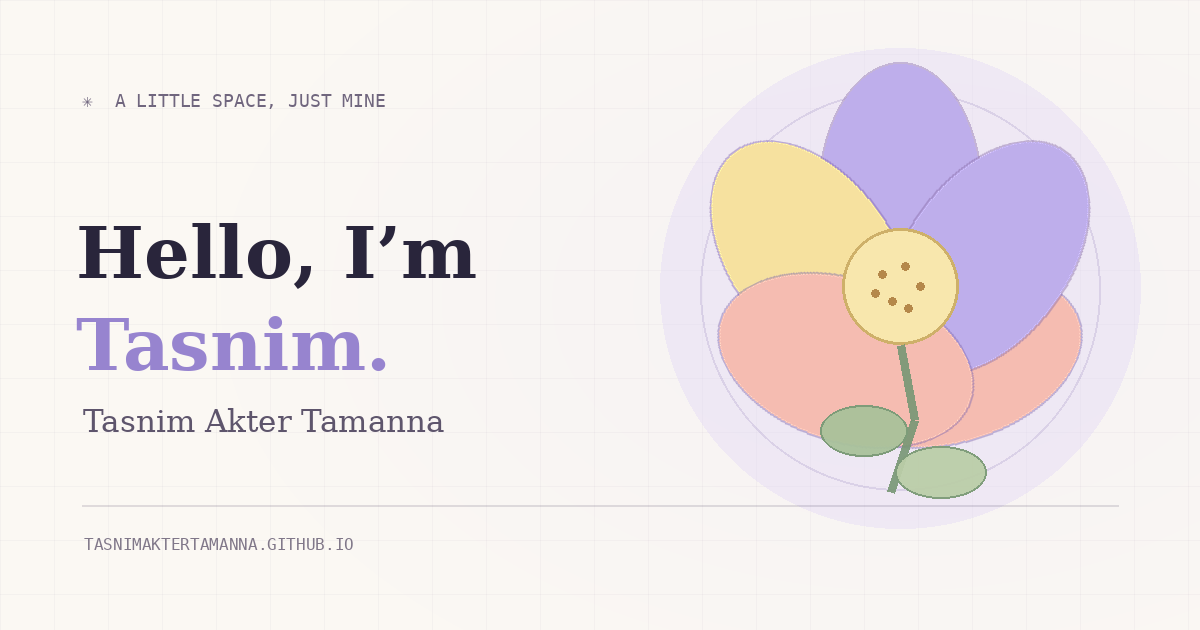
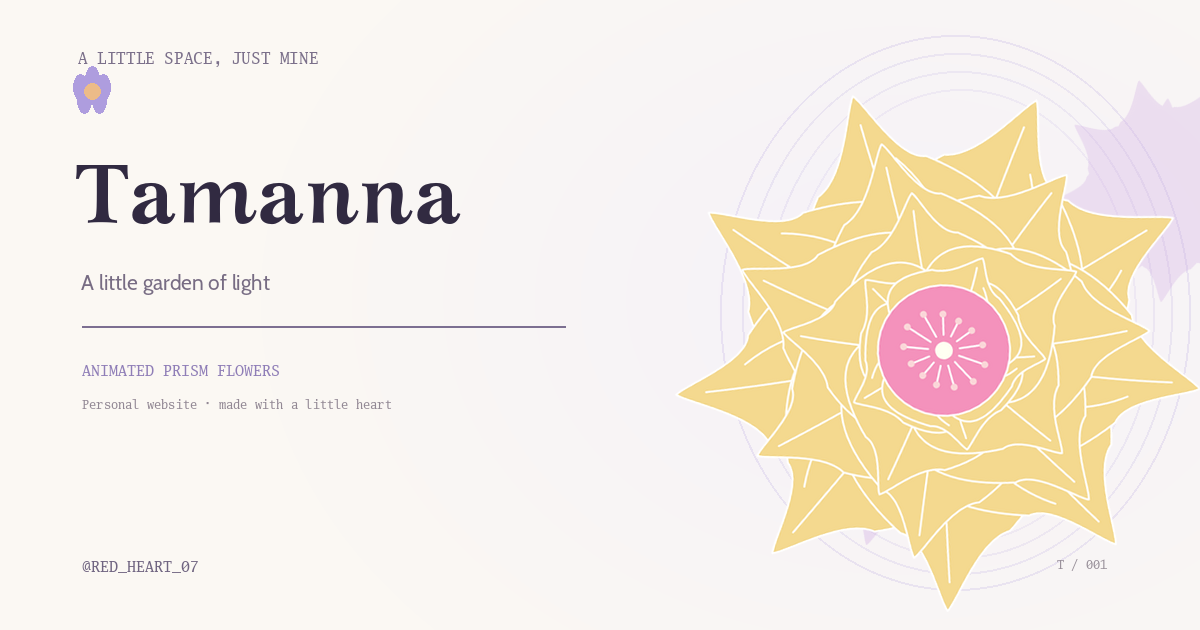
Add files via upload

diff --git a/index.html b/index.html
@@ -6,35 +6,34 @@
   <meta name="theme-color" content="#fbf8f3">
   <meta name="color-scheme" content="light dark">
   <meta name="author" content="Tasnim Akter Tamanna">
-  <meta name="description" content="A little corner of the internet belonging to Tasnim Akter Tamanna — a personal space for stories, ideas, and things still becoming.">
+  <meta name="description" content="A little corner of the internet belonging to Tamanna — a personal space for stories, ideas, and a garden of animated prism flowers.">
   <meta name="robots" content="index,follow,max-image-preview:large">
   <link rel="canonical" href="https://tasnimaktertamanna.github.io/">
-  <title>Tasnim Akter Tamanna — A little corner of the internet</title>
+  <title>Tamanna — A little garden of light</title>
 
   <meta property="og:type" content="website">
-  <meta property="og:site_name" content="Tasnim Akter Tamanna">
-  <meta property="og:title" content="Tasnim Akter Tamanna — A little corner of the internet">
-  <meta property="og:description" content="A personal space for stories, ideas, and all the things still becoming.">
+  <meta property="og:site_name" content="Tamanna">
+  <meta property="og:title" content="Tamanna — A little garden of light">
+  <meta property="og:description" content="A personal space for stories, ideas, and a little garden of animated prism flowers.">
   <meta property="og:url" content="https://tasnimaktertamanna.github.io/">
   <meta property="og:image" content="https://tasnimaktertamanna.github.io/og-image.png">
   <meta property="og:image:secure_url" content="https://tasnimaktertamanna.github.io/og-image.png">
   <meta property="og:image:type" content="image/png">
   <meta property="og:image:width" content="1200">
   <meta property="og:image:height" content="630">
-  <meta property="og:image:alt" content="Tasnim Akter Tamanna — a little corner of the internet">
+  <meta property="og:image:alt" content="Tamanna — a little garden of light">
   <meta name="twitter:card" content="summary_large_image">
-  <meta name="twitter:title" content="Tasnim Akter Tamanna — A little corner of the internet">
-  <meta name="twitter:description" content="A personal space for stories, ideas, and all the things still becoming.">
+  <meta name="twitter:title" content="Tamanna — A little garden of light">
+  <meta name="twitter:description" content="A personal space for stories, ideas, and a little garden of animated prism flowers.">
   <meta name="twitter:image" content="https://tasnimaktertamanna.github.io/og-image.png">
-  <meta name="twitter:image:alt" content="Tasnim Akter Tamanna — a little corner of the internet">
+  <meta name="twitter:image:alt" content="Tamanna — a little garden of light">
 
   <link rel="icon" type="image/svg+xml" href="/favicon.svg">
   <link rel="preconnect" href="https://fonts.googleapis.com">
   <link rel="preconnect" href="https://fonts.gstatic.com" crossorigin>
   <link href="https://fonts.googleapis.com/css2?family=DM+Sans:wght@400;500;600;700&family=DM+Mono:wght@400;500&family=Playfair+Display:ital,wght@0,500;0,600;0,700;1,500;1,600&display=swap" rel="stylesheet">
- 
-<link rel="stylesheet" href="/styles.css?v=1.0.0">
-  <script defer src="main.js?v=1.0.0"></script>
+  <link rel="stylesheet" href="/styles.css?v=2.0.0">
+  <script defer src="/main.js?v=2.0.0"></script>
   <script type="application/ld+json">
   {
     "@context": "https://schema.org",
@@ -51,9 +50,9 @@
 
   <header class="site-header">
     <div class="header-inner wrap">
-      <a class="wordmark" href="#home" aria-label="Tasnim Akter Tamanna home">
+      <a class="wordmark" href="#home" aria-label="Tamanna home">
         <span class="wordmark-flower" aria-hidden="true"><svg viewBox="0 0 40 40"><path d="M20 4c5 6 5 10 0 16C15 14 15 10 20 4Z"/><path d="M36 20c-6 5-10 5-16 0 6-5 10-5 16 0Z"/><path d="M20 36c-5-6-5-10 0-16 5 6 5 10 0 16Z"/><path d="M4 20c6-5 10-5 16 0-6 5-10 5-16 0Z"/><circle cx="20" cy="20" r="3.2"/></svg></span>
-        <span>tasnim<span class="wordmark-dot">.</span></span>
+        <span>tamanna<span class="wordmark-dot">.</span></span>
       </a>
       <nav class="main-nav" id="mainNav" aria-label="Main navigation">
         <a href="#story">My story</a>
@@ -75,8 +74,8 @@
     <section class="hero wrap" id="home" aria-labelledby="hero-title">
       <div class="hero-copy">
         <p class="eyebrow"><span class="eyebrow-star">✳</span> A LITTLE SPACE, JUST MINE</p>
-        <h1 id="hero-title">Hello, I'm<br><em>Tasnim</em><span class="hero-period">.</span></h1>
-        <p class="hero-subtitle">Tasnim Akter Tamanna</p>
+        <h1 id="hero-title">Hello, I'm<br><em>Tamanna</em><span class="hero-period">.</span></h1>
+        <p class="hero-subtitle">ONLINE AS <strong>@red_heart_07</strong></p>
         <p class="hero-description">A small corner of the internet for my story, my ideas, and the little things that make a life feel like its own.</p>
         <div class="hero-actions">
           <a class="button button-dark" href="#story">Come on in <span aria-hidden="true">↓</span></a>
@@ -85,33 +84,25 @@
         <div class="hero-footnote"><span class="tiny-spark">✳</span> A work in progress, in the loveliest way.</div>
       </div>
 
-      <div class="hero-art" aria-label="An abstract flower illustration in lilac, coral and butter yellow" role="img">
+      <div class="hero-art prism-garden" id="prismGarden" aria-label="Animated translucent Prism Aster flower from the TRILYVA Prism Flowers collection">
         <div class="art-halo"></div>
+        <div class="prism-orbit prism-orbit-one" aria-hidden="true"></div>
+        <div class="prism-orbit prism-orbit-two" aria-hidden="true"></div>
+        <img class="prism-flower prism-flower-echo prism-flower-echo-one" src="/prism-aster.svg" alt="" aria-hidden="true">
+        <img class="prism-flower prism-flower-echo prism-flower-echo-two" src="/prism-aster.svg" alt="" aria-hidden="true">
+        <img class="prism-flower prism-flower-main" src="/prism-aster.svg" alt="A translucent golden and rose-pink Prism Aster flower" loading="eager" decoding="async" fetchpriority="high">
+        <span class="prism-petal prism-petal-one" aria-hidden="true"></span>
+        <span class="prism-petal prism-petal-two" aria-hidden="true"></span>
+        <span class="prism-petal prism-petal-three" aria-hidden="true"></span>
+        <span class="prism-glint prism-glint-one" aria-hidden="true">✦</span>
+        <span class="prism-glint prism-glint-two" aria-hidden="true">✧</span>
         <div class="art-note note-one">GROW AT<br>YOUR PACE</div>
         <div class="art-note note-two">EST. 2026</div>
-        <svg class="hero-flower" viewBox="0 0 560 600" role="img" aria-hidden="true">
-          <defs>
-            <linearGradient id="petalA" x1="0" y1="0" x2="1" y2="1"><stop stop-color="#d9ccff"/><stop offset="1" stop-color="#a997ed"/></linearGradient>
-            <linearGradient id="petalB" x1="0" y1="0" x2="1" y2="1"><stop stop-color="#ffd1c5"/><stop offset="1" stop-color="#f29d9b"/></linearGradient>
-            <linearGradient id="petalC" x1="0" y1="0" x2="1" y2="1"><stop stop-color="#fff0b7"/><stop offset="1" stop-color="#eecf76"/></linearGradient>
-            <filter id="flowerShadow" x="-30%" y="-30%" width="160%" height="160%"><feGaussianBlur in="SourceAlpha" stdDeviation="8"/><feOffset dy="12"/><feComponentTransfer><feFuncA type="linear" slope=".15"/></feComponentTransfer><feMerge><feMergeNode/><feMergeNode in="SourceGraphic"/></feMerge></filter>
-          </defs>
-          <g class="flower-stem" fill="none" stroke="#7d9878" stroke-width="5" stroke-linecap="round"><path d="M278 308C276 395 300 465 268 555"/><path d="M280 440C225 401 192 415 176 449C221 464 253 462 280 440Z" fill="#a9c19b" stroke-width="2"/><path d="M280 488C329 448 364 459 377 492C336 507 304 507 280 488Z" fill="#bacda7" stroke-width="2"/></g>
-          <g filter="url(#flowerShadow)" transform="translate(280 270)">
-            <g class="petal petal-a"><path d="M0 8C-65-18-79-91-27-143C-8-163 9-156 17-133C37-79 34-35 0 8Z" fill="url(#petalA)" stroke="#9d8cdd" stroke-opacity=".55" stroke-width="2"/></g>
-            <g class="petal petal-b"><path d="M0 8C-65-18-79-91-27-143C-8-163 9-156 17-133C37-79 34-35 0 8Z" fill="url(#petalB)" stroke="#e98f8d" stroke-opacity=".6" stroke-width="2" transform="rotate(72)"/></g>
-            <g class="petal petal-c"><path d="M0 8C-65-18-79-91-27-143C-8-163 9-156 17-133C37-79 34-35 0 8Z" fill="url(#petalC)" stroke="#dbbd68" stroke-opacity=".6" stroke-width="2" transform="rotate(144)"/></g>
-            <g class="petal petal-d"><path d="M0 8C-65-18-79-91-27-143C-8-163 9-156 17-133C37-79 34-35 0 8Z" fill="url(#petalA)" stroke="#9d8cdd" stroke-opacity=".55" stroke-width="2" transform="rotate(216)"/></g>
-            <g class="petal petal-e"><path d="M0 8C-65-18-79-91-27-143C-8-163 9-156 17-133C37-79 34-35 0 8Z" fill="url(#petalB)" stroke="#e98f8d" stroke-opacity=".6" stroke-width="2" transform="rotate(288)"/></g>
-            <circle r="43" fill="#f8e7ad" stroke="#d6b85f" stroke-width="2"/>
-            <circle r="29" fill="#f4d58a"/>
-            <g fill="#b88848"><circle cx="-10" cy="-8" r="3"/><circle cx="7" cy="-14" r="3"/><circle cx="16" cy="1" r="3"/><circle cx="-4" cy="9" r="3"/><circle cx="7" cy="18" r="2.5"/><circle cx="-17" cy="8" r="2.5"/><circle cx="-1" cy="-20" r="2.2"/></g>
-          </g>
-          <g fill="none" stroke="#b6a3e9" stroke-width="2"><path d="M80 175c15-20 30-20 45 0-15 20-30 20-45 0Z"/><path d="M430 115c12-16 24-16 36 0-12 16-24 16-36 0Z"/><path d="M455 404c10-13 20-13 30 0-10 13-20 13-30 0Z"/></g>
-          <g fill="#e89c93"><circle cx="115" cy="335" r="5"/><circle cx="420" cy="255" r="4"/><circle cx="390" cy="510" r="6"/></g>
-          <g fill="#b2a0e7"><path d="M100 440l6 13 13 6-13 6-6 13-6-13-13-6 13-6Z"/><path d="M448 185l5 10 10 5-10 5-5 10-5-10-10-5 10-5Z"/></g>
-        </svg>
-        <div class="art-caption"><span>01 / A FRESH PAGE</span><span>✳</span></div>
+        <div class="art-caption"><span>TRILYVA / PRISM FLOWERS</span><a href="https://tamasrazim.github.io/projects/trilyva/renderer/" target="_blank" rel="noopener noreferrer">VIEW LIBRARY ↗</a></div>
+        <div class="prism-controls">
+          <span class="prism-credit">Artwork by Robiul Rumman Razim · used with permission</span>
+          <button class="prism-pause" id="prismPause" type="button" aria-pressed="false">Pause motion</button>
+        </div>
       </div>
       <div class="hero-bottom"><span>PERSONAL WEBSITE</span><span>MADE WITH A LITTLE DAYDREAMING</span><span>SCROLL TO EXPLORE ↓</span></div>
     </section>
@@ -121,10 +112,10 @@
       <div class="story-grid">
         <div class="story-heading reveal"><p class="eyebrow">A NOTE FROM ME</p><h2 id="story-title">Not a brand.<br><em>Just me.</em></h2><span class="handwritten">and that's enough ♡</span></div>
         <div class="story-copy reveal">
-          <p class="story-lead">I'm Tasnim Akter Tamanna. Welcome to my little space on the internet.</p>
+          <p class="story-lead">I'm Tamanna. Welcome to my little space on the internet.</p>
           <p>I made this page to have somewhere that feels personal — a place to introduce myself, gather the things I choose to share, and let the story unfold naturally.</p>
           <p>There is no rush to fill every corner. Some pages are allowed to grow slowly.</p>
-          <div class="signature"><span class="signature-line"></span><span>With love, Tasnim</span></div>
+          <div class="signature"><span class="signature-line"></span><span>With love, Tamanna</span></div>
         </div>
       </div>
     </section>
@@ -156,7 +147,7 @@
         <div class="online-heading reveal"><p class="eyebrow">SOMEWHERE ELSE</p><h2 id="online-title">Find me<br><em>out there.</em></h2><p>For now, GitHub is the one link I'm putting here. More can join when I'm ready.</p></div>
         <a class="github-card reveal" href="https://github.com/tasnimaktertamanna" target="_blank" rel="noopener noreferrer">
           <span class="github-icon" aria-hidden="true"><svg viewBox="0 0 24 24"><path d="M9 19c-4.3 1.4-4.3-2.5-6-3m12 6v-3.9a3.4 3.4 0 0 0-.9-2.7c3-.3 6.2-1.5 6.2-6.7a5.2 5.2 0 0 0-1.4-3.6 4.8 4.8 0 0 0-.1-3.6s-1.2-.4-3.8 1.4a13 13 0 0 0-6.9 0C5.5 1.1 4.3 1.5 4.3 1.5a4.8 4.8 0 0 0-.1 3.6 5.2 5.2 0 0 0-1.4 3.6c0 5.2 3.2 6.4 6.2 6.7a3.4 3.4 0 0 0-.9 2.7V22"/></svg></span>
-          <span class="github-copy"><small>MY PROFILE</small><strong>GitHub</strong><span>@tasnimaktertamanna</span></span>
+          <span class="github-copy"><small>MY GITHUB PROFILE</small><strong>GitHub</strong><span>@tasnimaktertamanna</span><small class="online-handle-label">MY ONLINE NAME</small><span>@red_heart_07</span></span>
           <span class="github-arrow" aria-hidden="true">↗</span>
         </a>
       </div>
@@ -173,7 +164,7 @@
 
   <footer class="site-footer wrap">
     <a class="footer-mark" href="#home">T<span>✳</span>T</a>
-    <span>© <span id="year">2026</span> TAS NIM AKTER TAMANNA</span>
+    <span>© <span id="year">2026</span> TAMANNA</span>
     <span>MADE WITH A LITTLE HEART <b>♡</b></span>
   </footer>
 </body>

diff --git a/styles.css b/styles.css
@@ -218,3 +218,58 @@ button { color: inherit; font: inherit; }
   *, *::before, *::after { scroll-behavior: auto !important; animation-duration: .01ms !important; animation-iteration-count: 1 !important; transition-duration: .01ms !important; }
   .reveal { opacity: 1; transform: none; }
 }
+
+
+/* TAMANNA / TRILYVA PRISM GARDEN */
+.hero-subtitle strong { color: var(--ink); font-weight: 700; }
+.prism-garden { overflow: hidden; min-width: 0; }
+.prism-garden .art-halo { width: min(94%, 520px); background: radial-gradient(circle at 48% 48%, rgba(255,255,255,.82), transparent 35%), linear-gradient(145deg, rgba(220,211,245,.72), rgba(249,215,205,.68) 52%, rgba(246,232,177,.7)); }
+.prism-orbit { position: absolute; z-index: 0; border: 1px solid rgba(158,139,217,.25); border-radius: 50%; pointer-events: none; }
+.prism-orbit-one { width: min(102%, 550px); aspect-ratio: 1; transform: rotate(-24deg) scaleY(.63); animation: prismOrbit 38s linear infinite; }
+.prism-orbit-two { width: min(82%, 440px); aspect-ratio: 1; transform: rotate(38deg) scaleY(.72); border-color: rgba(226,151,144,.28); animation: prismOrbit 52s linear infinite reverse; }
+.prism-flower { position: absolute; z-index: 1; display: block; object-fit: contain; pointer-events: none; user-select: none; transform-origin: 50% 50%; }
+.prism-flower-main { width: min(88%, 475px); max-height: 92%; filter: drop-shadow(0 24px 30px rgba(87,63,100,.16)); animation: prismFloat 8.5s ease-in-out infinite, prismTurn 76s linear infinite; }
+.prism-flower-echo { width: min(49%, 265px); opacity: .37; filter: hue-rotate(52deg) saturate(1.16) drop-shadow(0 14px 24px rgba(87,63,100,.1)); }
+.prism-flower-echo-one { left: -1%; top: 19%; animation: prismEchoLeft 13s ease-in-out infinite; }
+.prism-flower-echo-two { right: -2%; bottom: 11%; filter: hue-rotate(148deg) saturate(1.2) drop-shadow(0 14px 24px rgba(87,63,100,.1)); animation: prismEchoRight 15s ease-in-out infinite; }
+.prism-petal { position: absolute; z-index: 2; width: 24px; height: 40px; border: 1px solid rgba(255,255,255,.9); border-radius: 85% 15% 80% 20%; background: linear-gradient(145deg, rgba(255,255,255,.83), rgba(212,193,247,.74) 54%, rgba(245,174,167,.72)); box-shadow: 0 6px 18px rgba(130,101,166,.12); pointer-events: none; }
+.prism-petal-one { left: 12%; top: 34%; transform: rotate(-31deg); animation: petalDriftOne 9s ease-in-out infinite; }
+.prism-petal-two { right: 13%; top: 29%; width: 17px; height: 29px; background: linear-gradient(145deg, rgba(255,255,255,.85), rgba(255,225,159,.8)); transform: rotate(31deg); animation: petalDriftTwo 11s ease-in-out infinite; }
+.prism-petal-three { right: 22%; bottom: 21%; width: 13px; height: 23px; background: linear-gradient(145deg, rgba(255,255,255,.8), rgba(245,172,170,.72)); transform: rotate(74deg); animation: petalDriftThree 12s ease-in-out infinite; }
+.prism-glint { position: absolute; z-index: 3; color: #b49fe7; text-shadow: 0 0 18px rgba(255,255,255,.7); pointer-events: none; }
+.prism-glint-one { top: 19%; right: 19%; font-size: 25px; animation: glintPulse 3.8s ease-in-out infinite; }
+.prism-glint-two { bottom: 28%; left: 15%; color: #df9990; font-size: 31px; animation: glintPulse 4.8s ease-in-out -1.8s infinite; }
+.art-caption { bottom: 8%; align-items: center; gap: 12px; }
+.art-caption a { color: var(--muted); text-decoration: none; border-bottom: 1px solid var(--line); padding-bottom: 2px; }
+.art-caption a:hover { color: var(--ink); border-color: var(--ink); }
+.prism-controls { position: absolute; z-index: 4; left: 9%; right: 9%; bottom: 1.5%; display: flex; align-items: center; justify-content: space-between; gap: 12px; }
+.prism-credit { color: var(--faint); font: 8px/1.5 var(--mono); letter-spacing: .025em; }
+.prism-pause { padding: 6px 10px; border: 1px solid var(--line); border-radius: 999px; background: rgba(251,248,243,.7); color: var(--muted); font: 9px var(--mono); cursor: pointer; transition: background .2s, color .2s, border-color .2s; }
+.prism-pause:hover { background: var(--paper); color: var(--ink); border-color: var(--ink); }
+.prism-garden.prism-paused *, .prism-garden.prism-paused *::before, .prism-garden.prism-paused *::after { animation-play-state: paused !important; }
+.prism-garden.prism-paused .prism-pause { background: var(--ink); color: var(--paper); border-color: var(--ink); }
+@keyframes prismFloat { 0%,100% { transform: translate3d(0,5px,0) rotate(-2deg) scale(.985); } 50% { transform: translate3d(0,-13px,0) rotate(2deg) scale(1.015); } }
+@keyframes prismTurn { from { rotate: -4deg; } to { rotate: 356deg; } }
+@keyframes prismOrbit { to { rotate: 360deg; } }
+@keyframes prismEchoLeft { 0%,100% { transform: translate(0,0) rotate(-15deg) scale(.9); } 50% { transform: translate(12px,-14px) rotate(4deg) scale(1); } }
+@keyframes prismEchoRight { 0%,100% { transform: translate(0,0) rotate(18deg) scale(.82); } 50% { transform: translate(-10px,12px) rotate(-4deg) scale(.94); } }
+@keyframes petalDriftOne { 0%,100% { translate: 0 0; rotate: -8deg; } 50% { translate: -8px -24px; rotate: 15deg; } }
+@keyframes petalDriftTwo { 0%,100% { translate: 0 0; rotate: 0deg; } 50% { translate: 11px -23px; rotate: 27deg; } }
+@keyframes petalDriftThree { 0%,100% { translate: 0 0; rotate: 74deg; } 50% { translate: -10px -19px; rotate: 110deg; } }
+@keyframes glintPulse { 0%,100% { opacity: .55; transform: scale(.8) rotate(-12deg); } 50% { opacity: 1; transform: scale(1.2) rotate(12deg); } }
+.github-copy .online-handle-label { margin-top: 8px; }
+@media (max-width: 650px) {
+  .prism-garden { min-height: 350px; }
+  .prism-flower-main { width: min(92%, 390px); }
+  .prism-flower-echo { width: min(47%, 185px); }
+  .prism-petal-one { left: 8%; top: 36%; }
+  .prism-petal-two { right: 8%; top: 28%; }
+  .art-caption { left: 8%; right: 8%; bottom: 10%; font-size: 7px; }
+  .prism-controls { left: 8%; right: 8%; bottom: 1%; }
+  .prism-credit { max-width: 68%; font-size: 7px; }
+  .prism-pause { font-size: 8px; padding: 6px 8px; }
+}
+@media (prefers-reduced-motion: reduce) {
+  .prism-garden *, .prism-garden *::before, .prism-garden *::after { animation: none !important; transition: none !important; }
+  .prism-flower-main { transform: none; }
+}

diff --git a/main.js b/main.js
@@ -5,11 +5,26 @@
   var menuButton = document.getElementById("menuToggle");
   var nav = document.getElementById("mainNav");
   var year = document.getElementById("year");
+  var prismGarden = document.getElementById("prismGarden");
+  var prismPause = document.getElementById("prismPause");
+
+  if (prismGarden && prismPause) {
+    var reduceMotion = window.matchMedia && window.matchMedia("(prefers-reduced-motion: reduce)").matches;
+    if (reduceMotion) {
+      prismPause.hidden = true;
+    } else {
+      prismPause.addEventListener("click", function () {
+        var paused = prismGarden.classList.toggle("prism-paused");
+        prismPause.textContent = paused ? "Resume motion" : "Pause motion";
+        prismPause.setAttribute("aria-pressed", String(paused));
+      });
+    }
+  }
 
   if (year) year.textContent = String(new Date().getFullYear());
 
   var savedTheme = null;
-  try { savedTheme = window.localStorage.getItem("tasnim-theme"); } catch (error) { /* Storage may be unavailable. */ }
+  try { savedTheme = window.localStorage.getItem("tamanna-theme"); } catch (error) { /* Storage may be unavailable. */ }
   if (savedTheme === "dark" || savedTheme === "light") root.setAttribute("data-theme", savedTheme);
 
   function syncThemeLabel() {
@@ -23,7 +38,7 @@
     toggle.addEventListener("click", function () {
       var next = root.getAttribute("data-theme") === "dark" ? "light" : "dark";
       root.setAttribute("data-theme", next);
-      try { window.localStorage.setItem("tasnim-theme", next); } catch (error) { /* Theme still works for this visit. */ }
+      try { window.localStorage.setItem("tamanna-theme", next); } catch (error) { /* Theme still works for this visit. */ }
       syncThemeLabel();
     });
   }

diff --git a/README.md b/README.md
@@ -1,21 +1,11 @@
-# Tasnim Akter Tamanna — personal website
+# Tamanna — personal website
 
-This folder contains a standalone personal website for Tasnim Akter Tamanna.
+This is the updated homepage for Tamanna (@red_heart_07), including the animated Prism Aster flower.
 
-It is deliberately kept separate from the repository's existing root website. Nothing in the root repository needs to be replaced.
+## Upload
 
-## Preview
+Upload every file in this folder to the **root** of `tasnimaktertamanna/tasnimaktertamanna.github.io`, replacing the existing files with the same names when GitHub asks. Keep these files together: `index.html`, `styles.css`, `main.js`, `prism-aster.svg`, `favicon.svg`, `og-image.png`, `robots.txt`, and `sitemap.xml`.
 
-Open `index.html` in this folder. The page loads its styling and JavaScript from `assets/`, uses `favicon.svg`, and references `og-image.png` for social sharing metadata.
+## Prism artwork
 
-## Publish as a subfolder
-
-Upload the entire `in me` folder to the root of the repository. The resulting path should be:
-
-`in me/index.html`
-
-The site can then be viewed at:
-
-`https://tamasrazim.github.io/in%20me/`
-
-GitHub Pages may not serve folders containing spaces consistently across all tools. If needed, rename the folder to `in-me` and use `https://tamasrazim.github.io/in-me/` instead.
+`prism-aster.svg` is a vector conversion of the Prism Aster EPS artwork supplied in the conversation. It is credited in the website hero to Robiul Rumman Razim / TRILYVA Prism Flowers and used with the permission Tamanna reported receiving. The website animates the vector locally with CSS; visitors do not need to load the TRILYVA editor.
